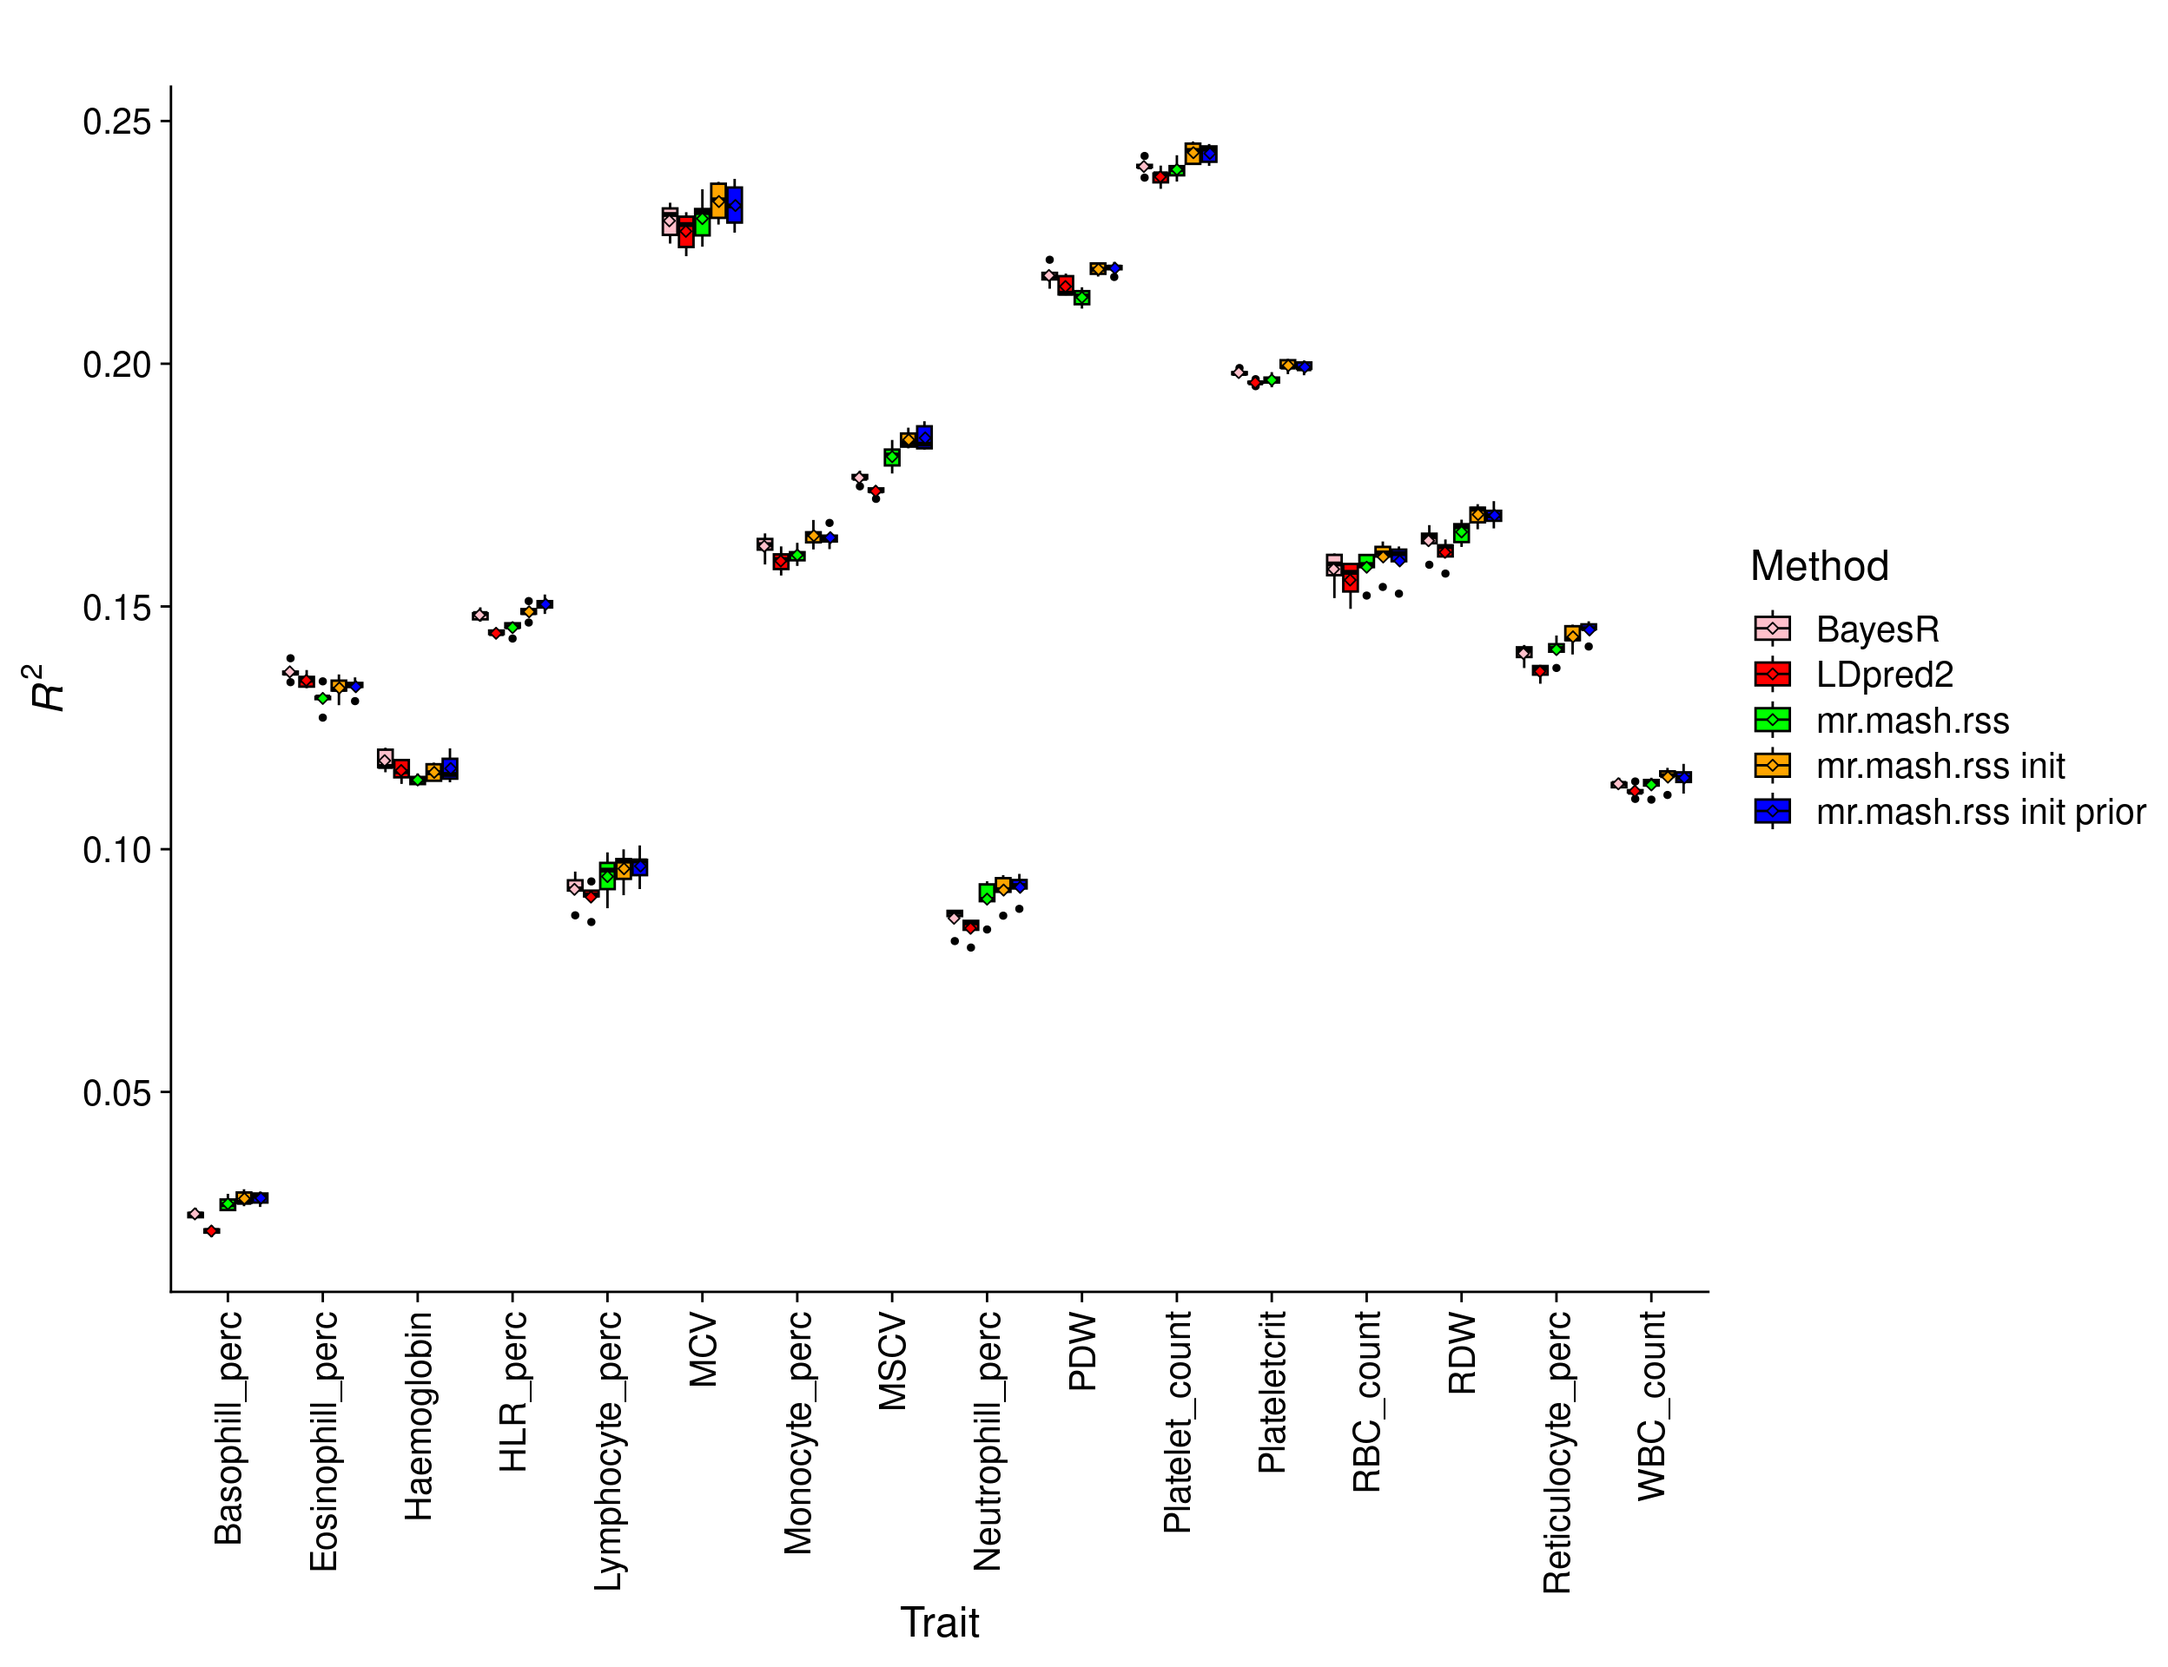
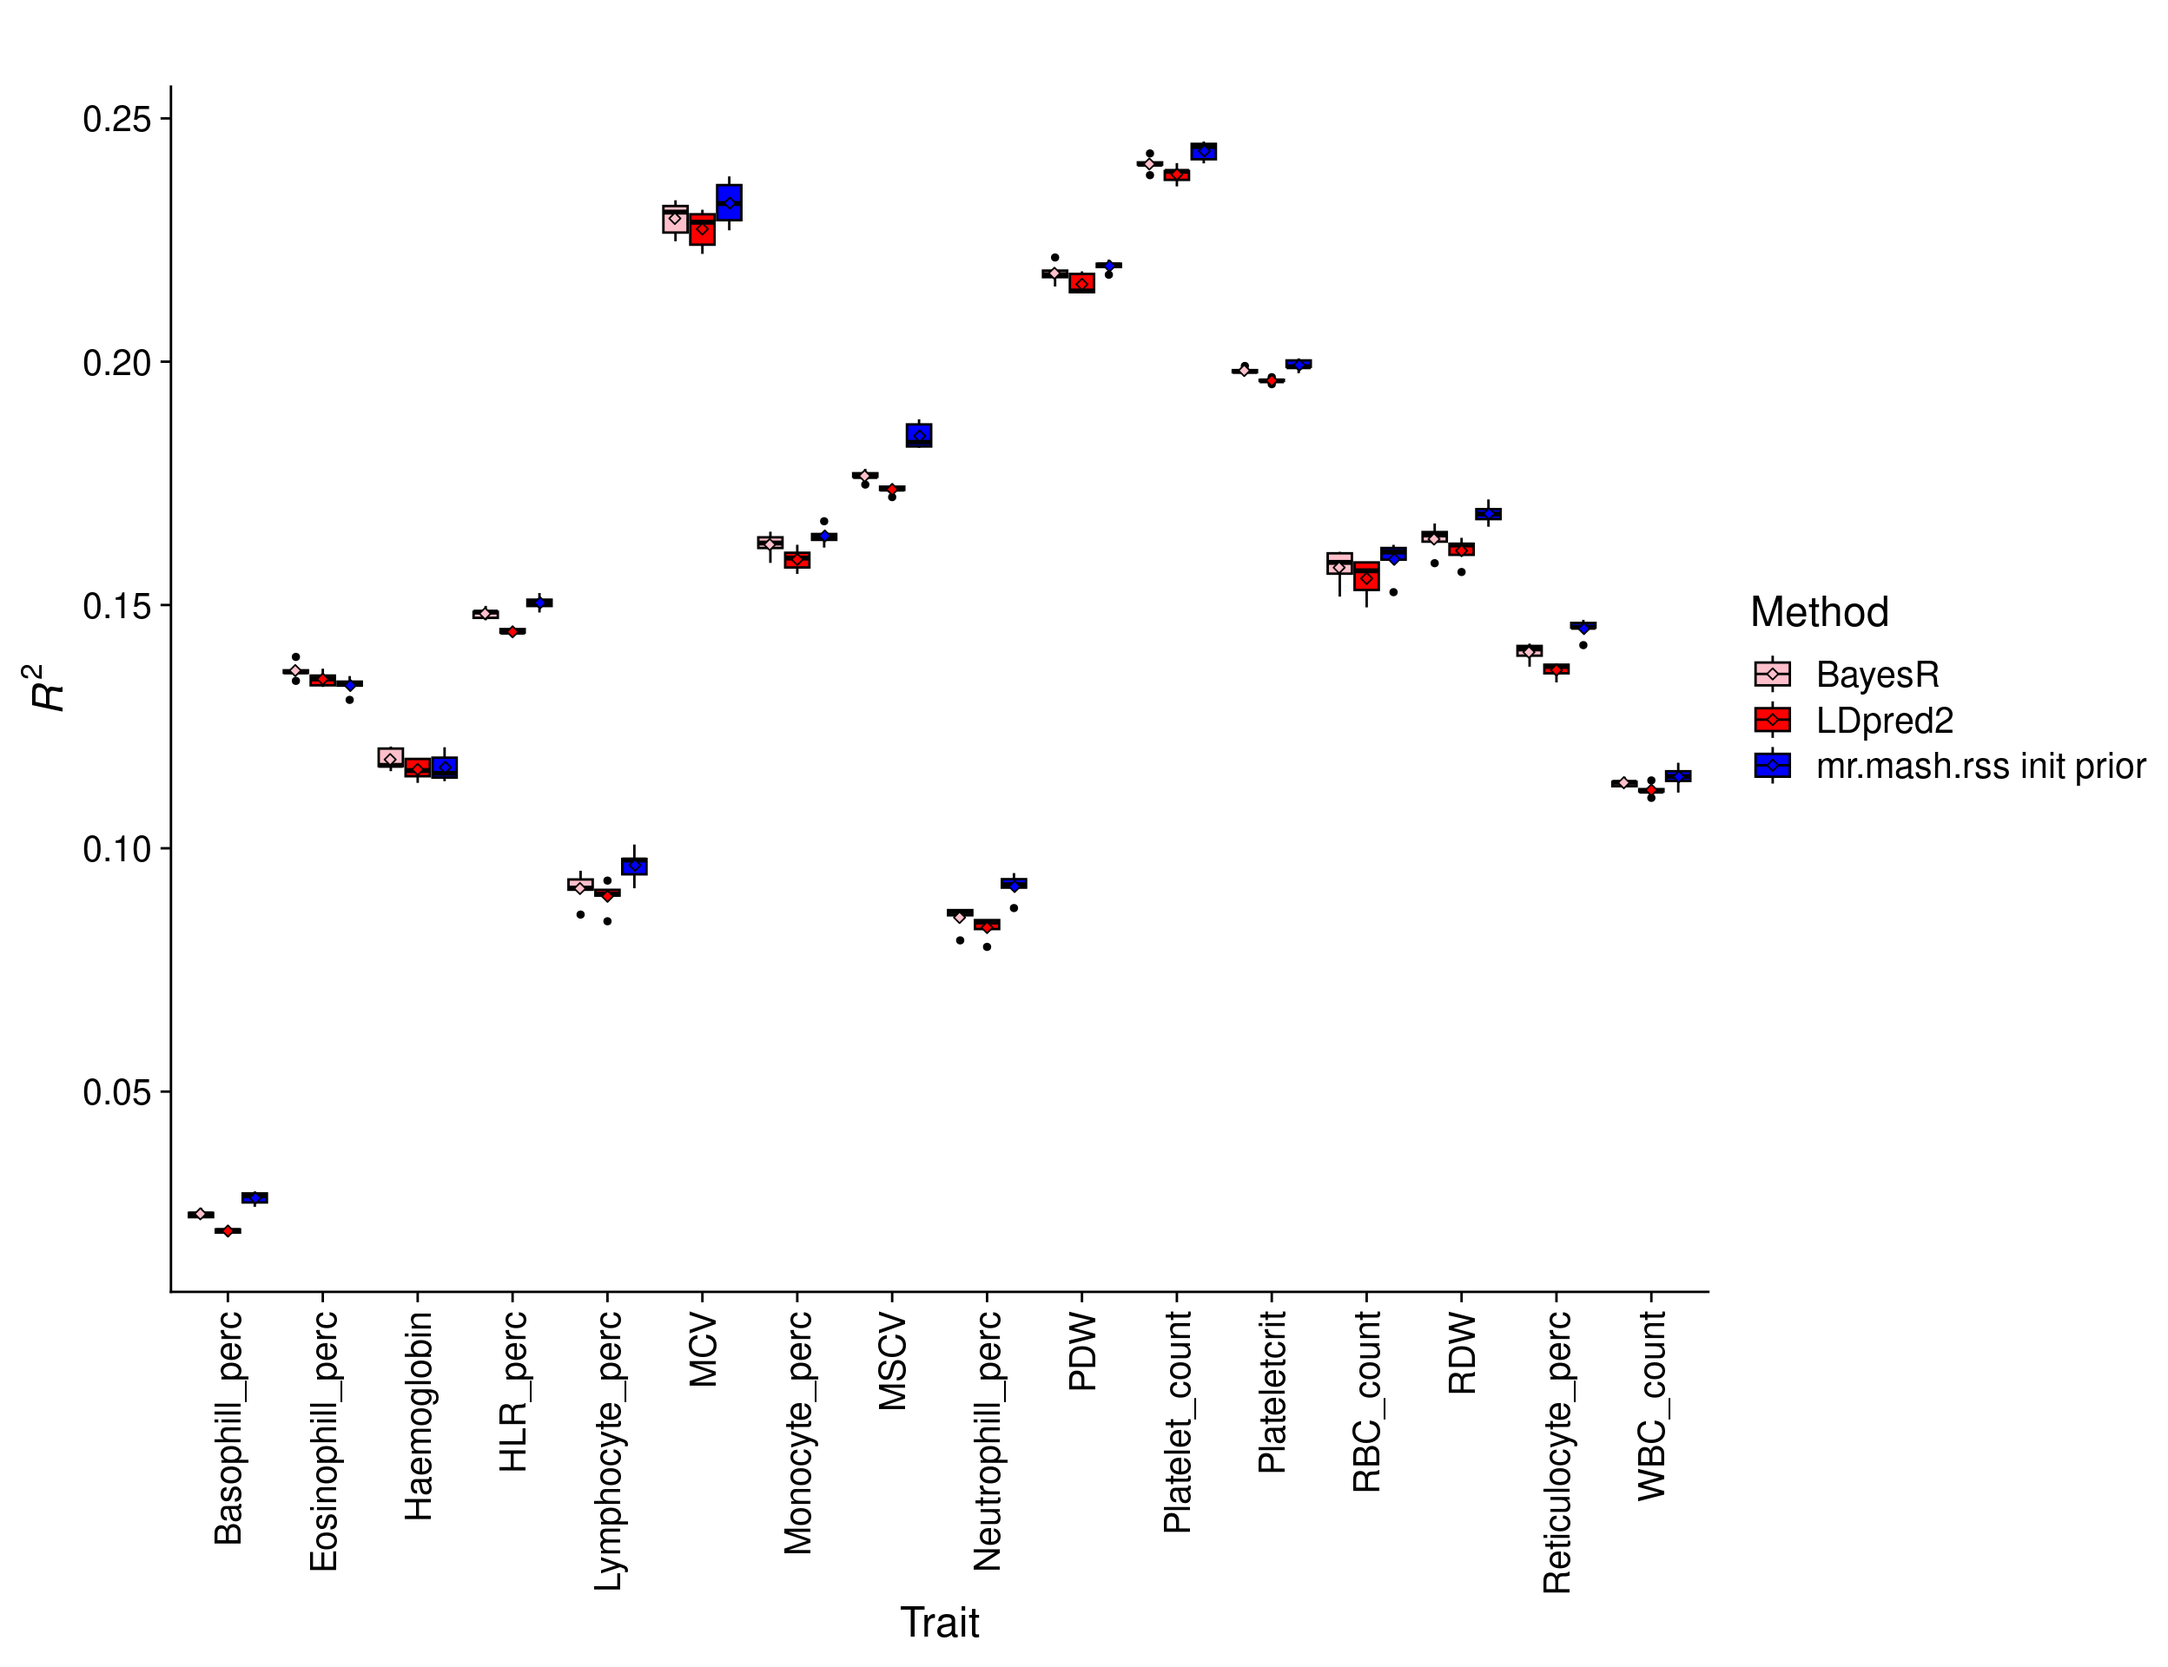
Build site.

diff --git a/docs/ukb_bc_results.html b/docs/ukb_bc_results.html
@@ -534,15 +534,15 @@ project makes it easier to run your code on other machines.</p>
 <div class="panel panel-default">
 <div class="panel-heading">
 <p class="panel-title">
-<a data-toggle="collapse" data-parent="#workflowr-checks" href="#strongRepositoryversionstrongahrefhttpsgithubcommorgantelabmrmashrssanalysistree9383eec5b7094e531fe07800531ea3103b8e4e44targetblank9383eeca">
+<a data-toggle="collapse" data-parent="#workflowr-checks" href="#strongRepositoryversionstrongahrefhttpsgithubcommorgantelabmrmashrssanalysistree53c26a18073bf5137ca3d089c0b614efef1e9a98targetblank53c26a1a">
 <span class="glyphicon glyphicon-ok text-success"
 aria-hidden="true"></span> <strong>Repository version:</strong>
-<a href="https://github.com/morgantelab/mr_mash_rss_analysis/tree/9383eec5b7094e531fe07800531ea3103b8e4e44" target="_blank">9383eec</a>
+<a href="https://github.com/morgantelab/mr_mash_rss_analysis/tree/53c26a18073bf5137ca3d089c0b614efef1e9a98" target="_blank">53c26a1</a>
 </a>
 </p>
 </div>
 <div
[2 lines of base64/hex data omitted]
 class="panel-collapse collapse">
 <div class="panel-body">
 <p>
@@ -552,7 +552,7 @@ reproducibility.
 </p>
 <p>
 The results in this page were generated with repository version
-<a href="https://github.com/morgantelab/mr_mash_rss_analysis/tree/9383eec5b7094e531fe07800531ea3103b8e4e44" target="_blank">9383eec</a>.
+<a href="https://github.com/morgantelab/mr_mash_rss_analysis/tree/53c26a18073bf5137ca3d089c0b614efef1e9a98" target="_blank">53c26a1</a>.
 See the <em>Past versions</em> tab to see a history of the changes made
 to the R Markdown and HTML files.
 </p>
@@ -638,6 +638,40 @@ Message
 </tr>
 </thead>
 <tbody>
+<tr>
+<td>
+Rmd
+</td>
+<td>
+<a href="https://github.com/morgantelab/mr_mash_rss_analysis/blob/53c26a18073bf5137ca3d089c0b614efef1e9a98/analysis/ukb_bc_results.Rmd" target="_blank">53c26a1</a>
+</td>
+<td>
+fmorgante
+</td>
+<td>
+2024-02-13
+</td>
+<td>
+Minor change
+</td>
+</tr>
+<tr>
+<td>
+html
+</td>
+<td>
+<a href="https://rawcdn.githack.com/morgantelab/mr_mash_rss_analysis/98405f207cf141c10a92543804cfb8a5d693257a/docs/ukb_bc_results.html" target="_blank">98405f2</a>
+</td>
+<td>
+fmorgante
+</td>
+<td>
+2024-02-13
+</td>
+<td>
+Build site.
+</td>
+</tr>
 <tr>
 <td>
 Rmd
@@ -1180,12 +1214,12 @@ trait &lt;- rep(colnames(pheno), each=5)
 
 res &lt;- data.frame(method, trait, r2)
 
-res &lt;- res[which(res$method %in% c(&quot;bayesR&quot;, &quot;ldpred2_auto&quot;, &quot;mr_mash_rss&quot;, &quot;mr_mash_rss_init&quot;, &quot;mr_mash_rss_init_fm_prior&quot;)), ]
+#res &lt;- res[which(res$method %in% c(&quot;bayesR&quot;, &quot;ldpred2_auto&quot;, &quot;mr_mash_rss&quot;, &quot;mr_mash_rss_init&quot;, &quot;mr_mash_rss_init_fm_prior&quot;)), ]
+res &lt;- res[which(res$method %in% c(&quot;bayesR&quot;, &quot;ldpred2_auto&quot;, &quot;mr_mash_rss_init_fm_prior&quot;)), ]
 
 res &lt;- transform(res,
-                 method=factor(method, levels=c(&quot;bayesR&quot;, &quot;ldpred2_auto&quot;, 
-                                                &quot;mr_mash_rss&quot;, &quot;mr_mash_rss_init&quot;, &quot;mr_mash_rss_init_fm_prior&quot;),
-                               labels=c(&quot;BayesR&quot;, &quot;LDpred2&quot;, &quot;mr.mash.rss&quot;, &quot;mr.mash.rss init&quot;, &quot;mr.mash.rss init prior&quot;)),
+                 method=factor(method, levels=c(&quot;bayesR&quot;, &quot;ldpred2_auto&quot;, &quot;mr_mash_rss_init_fm_prior&quot;),
+                               labels=c(&quot;BayesR&quot;, &quot;LDpred2&quot;, &quot;mr.mash.rss init prior&quot;)),
                  trait=factor(trait))
 
 p_methods_shared &lt;- ggplot(res, aes(x = trait, y = r2, fill = method)) +
@@ -1193,7 +1227,7 @@ p_methods_shared &lt;- ggplot(res, aes(x = trait, y = r2, fill = method)) +
   stat_summary(fun=mean, geom=&quot;point&quot;, shape=23,
                position = position_dodge2(width = 0.87,   
                                           preserve = &quot;single&quot;)) +
-  scale_fill_manual(values = c(&quot;pink&quot;, &quot;red&quot;, &quot;green&quot;, &quot;orange&quot;, &quot;blue&quot;)) +
+  scale_fill_manual(values = c(&quot;pink&quot;, &quot;red&quot;, &quot;blue&quot;, &quot;green&quot;, &quot;orange&quot;)) +
   labs(x = &quot;Trait&quot;, y = expression(italic(R)^2), fill=&quot;Method&quot;, title=&quot;&quot;) + 
   # facet_grid(~trait, scales=&quot;free_x&quot;) +
   # geom_hline(aes(yintercept = h2), linez) +
@@ -1224,6 +1258,17 @@ Date
 </tr>
 </thead>
 <tbody>
+<tr>
+<td>
+<a href="https://github.com/morgantelab/mr_mash_rss_analysis/blob/98405f207cf141c10a92543804cfb8a5d693257a/docs/figure/ukb_bc_results.Rmd/results_244K_accuracy-1.png" target="_blank">98405f2</a>
+</td>
+<td>
+fmorgante
+</td>
+<td>
+2024-02-13
+</td>
+</tr>
 <tr>
 <td>
 <a href="https://github.com/morgantelab/mr_mash_rss_analysis/blob/60889dd871514919b74d43907d52d9ee47e06821/docs/figure/ukb_bc_results.Rmd/results_244K_accuracy-1.png" target="_blank">60889dd</a>
@@ -1340,6 +1385,17 @@ Date
 </tr>
 </thead>
 <tbody>
+<tr>
+<td>
+<a href="https://github.com/morgantelab/mr_mash_rss_analysis/blob/98405f207cf141c10a92543804cfb8a5d693257a/docs/figure/ukb_bc_results.Rmd/results_75K_accuracy-1.png" target="_blank">98405f2</a>
+</td>
+<td>
+fmorgante
+</td>
+<td>
+2024-02-13
+</td>
+</tr>
 <tr>
 <td>
 <a href="https://github.com/morgantelab/mr_mash_rss_analysis/blob/60889dd871514919b74d43907d52d9ee47e06821/docs/figure/ukb_bc_results.Rmd/results_75K_accuracy-1.png" target="_blank">60889dd</a>
